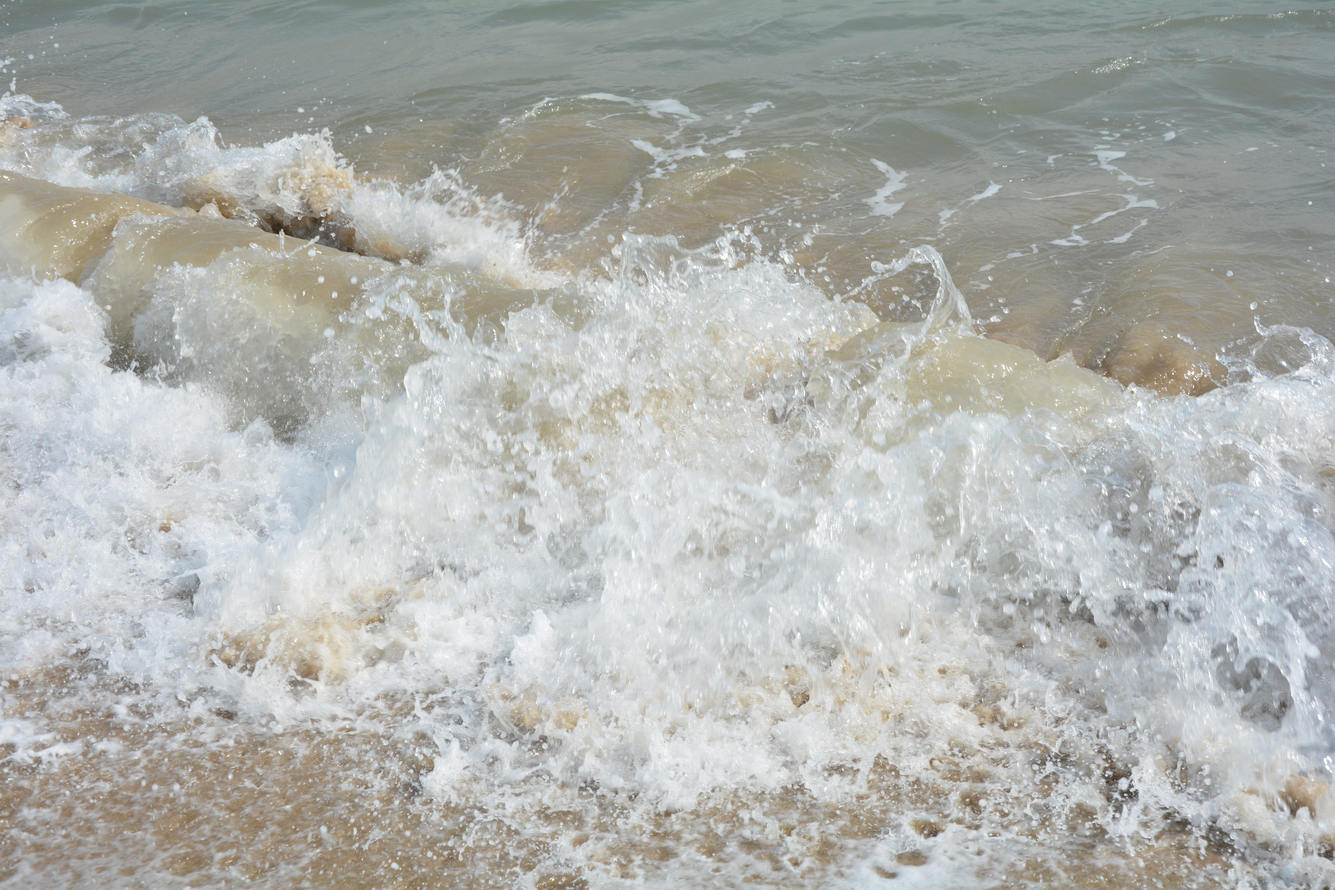
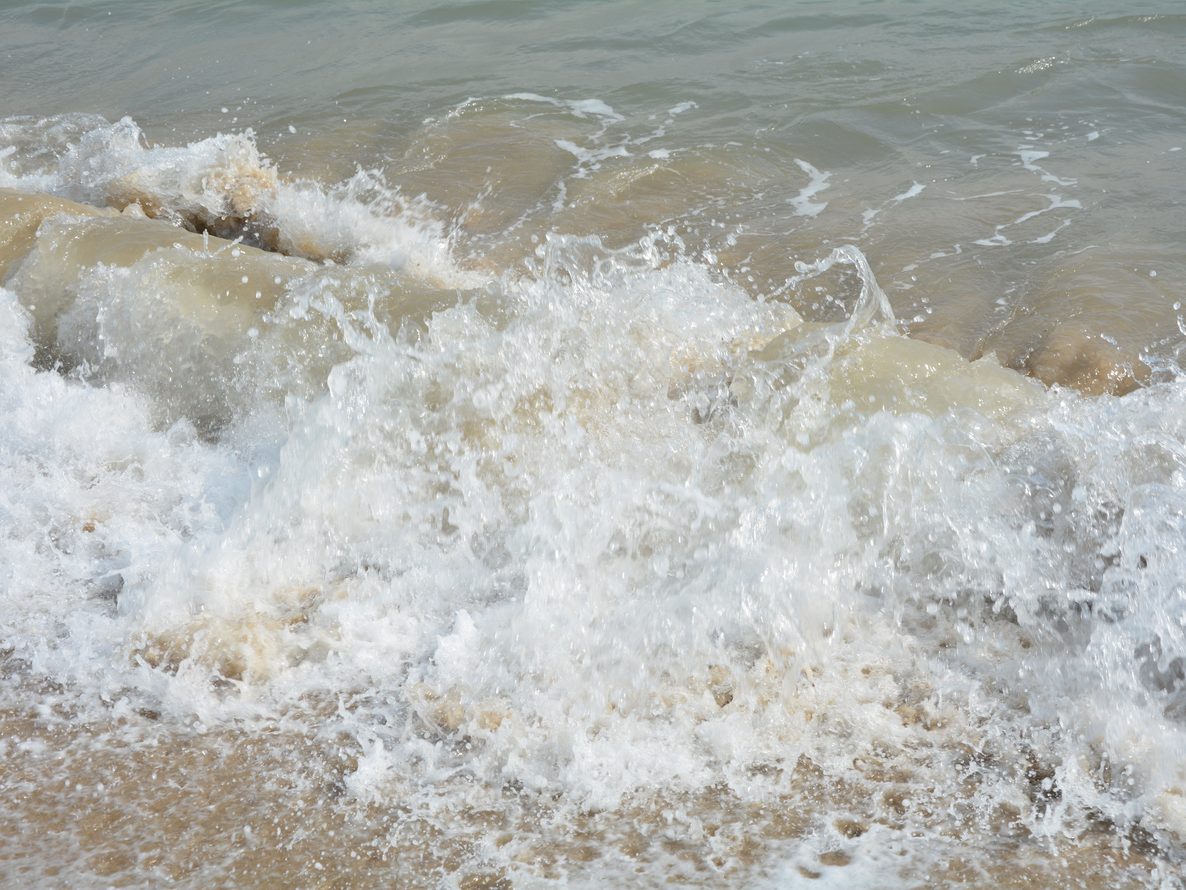
modified two backgrounds

diff --git a/_researches/2023-05-04-list-of-paper-reading.html b/_researches/2023-05-04-list-of-paper-reading.html
@@ -1,12 +1,12 @@
 ---
 layout: articles
 title: Paper Reading
-cover: /assets/images/cover/IMG_2110.JPG
+cover: /assets/images/cover/IMG_8027.JPG
 article_header:
     type: overlay
     theme: dark
     background_image:
-        src: /assets/images/cover/IMG_2110.JPG
+        src: /assets/images/cover/IMG_8027.JPG
 articles:
     data_source: paper-reading
     show_cover: false

diff --git a/_researches/2023-05-23-list-of-publications.html b/_researches/2023-05-23-list-of-publications.html
@@ -1,6 +1,6 @@
 ---
 layout: articles
-title: Paper Reading
+title: Publications
 cover: /assets/images/cover/DSC_3605.JPG
 location: "Grassland Skyline, Zhangjiakou, China, Feb 2023"
 show_location : true
